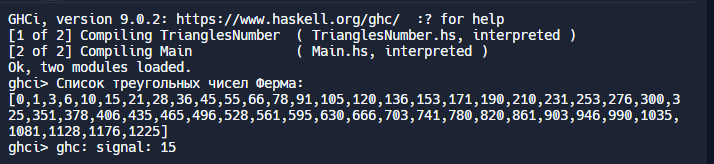
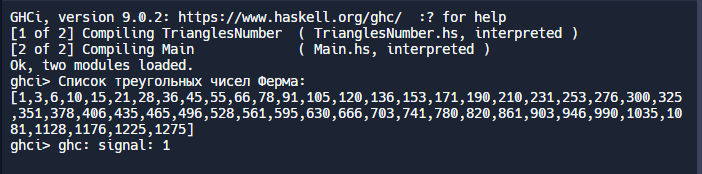
Внес правки

diff --git a/lab1/Result.md b/lab1/Result.md
@@ -48,7 +48,7 @@ Subtask4.hs
 module Subtask4 where
   getCharB list = head (head (tail list))
 -------------------------------------------------
-![Alt text](task2/image-1.png)
+![Alt text](task2/image.png)
 
 3) Список нечётных натуральных чисел.  Количество чисел в списке = 20. (не менее 3 способа)
 Main.hs
@@ -110,7 +110,7 @@ module Main where
 import qualified TrianglesNumber as TN
 
 main = do
-  let startElement = 0
+  let startElement = 1
   let numberElements = 50
   let list = []
 
@@ -138,7 +138,7 @@ module Main where
 import qualified SquarePyramidNumbers as SPN
 
 main = do
-  let startElement = 0
+  let startElement = 1
   let numberElements = 50
   let list = []
 

diff --git a/lab1/task2/task2.md b/lab1/task2/task2.md
@@ -27,16 +27,16 @@ module Subtask1 where
 Subtask2.hs
 -------------------------------------------------
 module Subtask2 where
-  getCharB list = tail (head list)
+  getCharB list = head (tail (head list))
 -------------------------------------------------
 Subtask3.hs
 -------------------------------------------------
 module Subtask3 where
-  getCharB list = tail (head (tail list))
+  getCharB list = head( tail (head (tail list)))
 -------------------------------------------------
 Subtask4.hs
 -------------------------------------------------
 module Subtask4 where
   getCharB list = head (head (tail list))
 -------------------------------------------------
-![Alt text](image-1.png)
+![Alt text](image.png)

diff --git a/lab1/task5/task5.md b/lab1/task5/task5.md
@@ -5,7 +5,7 @@ module Main where
 import qualified SquarePyramidNumbers as SPN
 
 main = do
-  let startElement = 0
+  let startElement = 1
   let numberElements = 50
   let list = []
 

diff --git a/lab1/task4/task4.md b/lab1/task4/task4.md
@@ -5,7 +5,7 @@ module Main where
 import qualified TrianglesNumber as TN
 
 main = do
-  let startElement = 0
+  let startElement = 1
   let numberElements = 50
   let list = []
 
